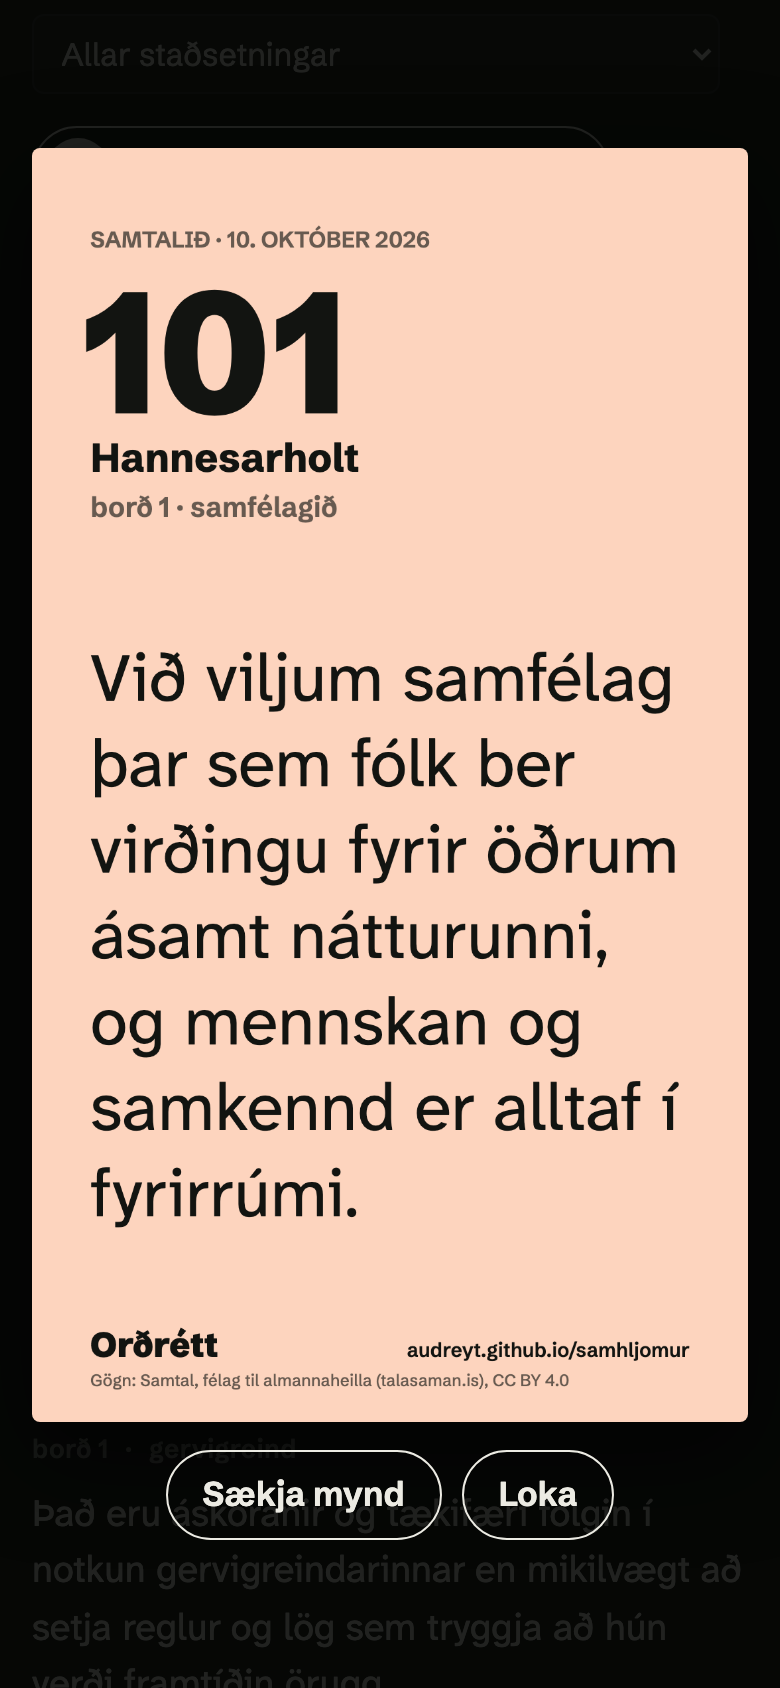
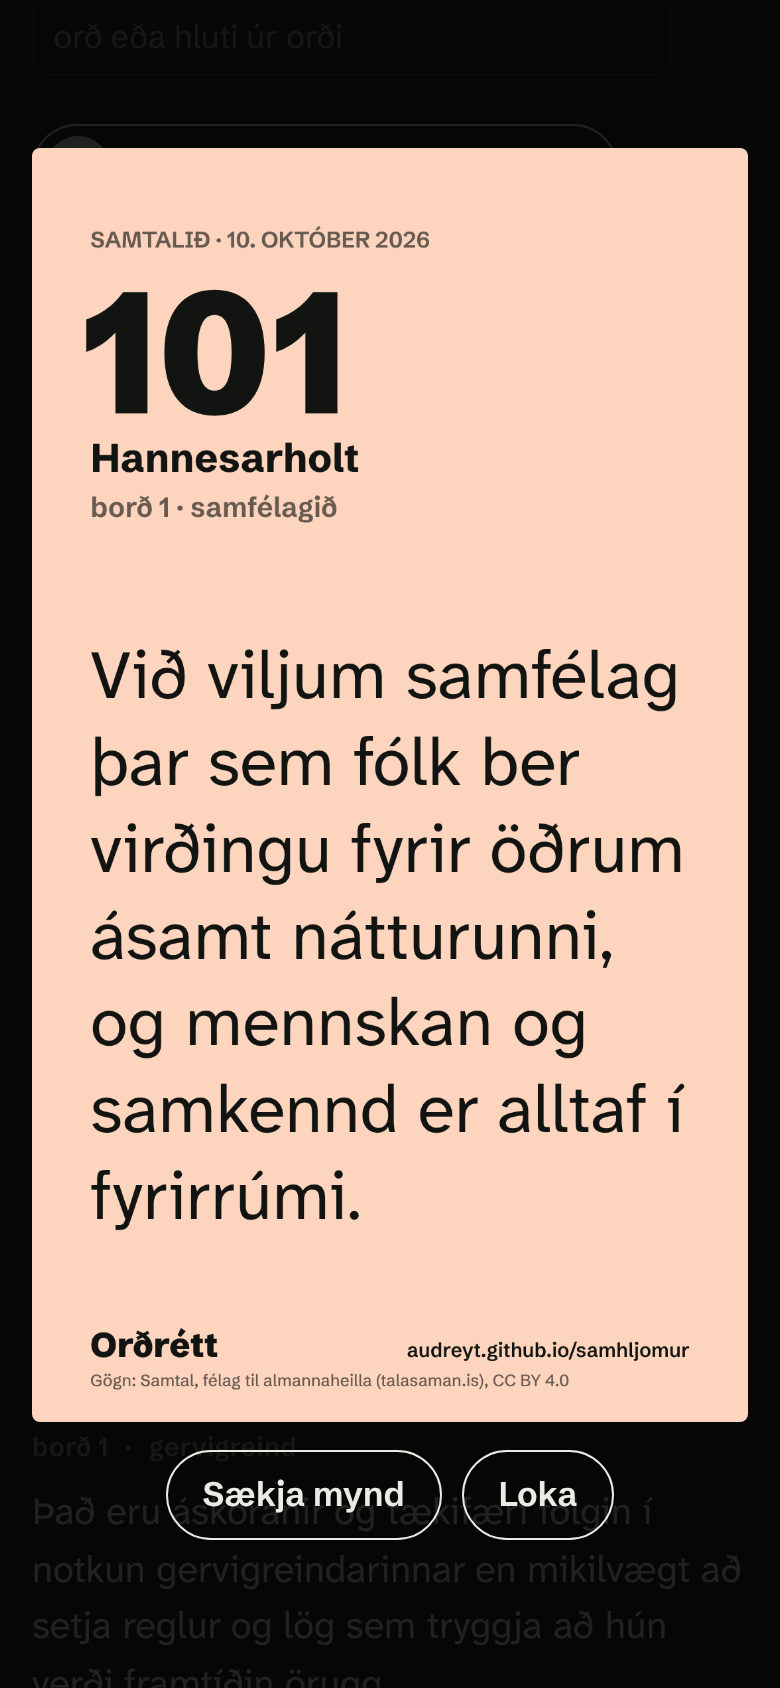
Orðrétt: a voice's words end where the voice ends; gate log, 58 gates
A poster in the shape of its voice spread the recording over every line the
box could hold, so a short summary left the end of the voice empty. The
recording now spreads over just as many lines as its words fill, and the
shape is centred in its box; most voiced posters come out larger
(Kvennaskólinn table 2: 66px to 72px).

All 58 gates pass with the network, live data from talasaman.is
(11 October 14:01) on the 21:49 snapshot. Poster screenshots updated.

Claude-Session: https://claude.ai/code/session_015ftgK1hSCCcaSGox1J6oHR

diff --git a/ordrett/page.html b/ordrett/page.html
@@ -1501,7 +1501,8 @@ function wordsPlan(r, boxH) {
 // A summary with a recording is set in the shape of that recording: top to bottom is start to end,
 // and each line is as wide as the voice is loud in its stretch (the mean reading there, scaled from
 // the quietest stretch to the loudest: 40% of the measure to all of it). A line is widened rather than
-// cut a word. The size is the largest at which the whole summary fits the shape.
+// cut a word. The recording is spread over just as many lines as its words fill, so the words end
+// where the voice ends; the size is the largest at which that fits the box.
 const VLH = 1.2;
 function voicePlan(r, env, boxH) {
   const text = r.summary, p = prepared(text, POSTER_WORDS);
@@ -1516,9 +1517,7 @@ function voicePlan(r, env, boxH) {
     const lo = Math.min(...v), span = Math.max(...v) - lo || 1;
     return v.map((x) => PRW * (0.4 + 0.6 * (x - lo) / span));
   };
-  const flow = (s) => {
-    const n = Math.floor(boxH / (s * VLH));
-    if (n < 2) return null;
+  const flow = (s, n) => {
     const rows = widths(n), lines = [];
     let cur = { segmentIndex: 0, graphemeIndex: 0 }, at = 0;
     for (let i = 0; i < n && at < text.length; i++) {
@@ -1538,8 +1537,18 @@ function voicePlan(r, env, boxH) {
     }
     return at === text.length ? { size: s, rows, lines } : null;
   };
-  const s = largest((s) => !!flow(s), POSTER_MIN, 120);
-  return s ? flow(s) : null;
+  // the fewest lines whose shape holds the summary, every line used; failing that, the fewest that hold it
+  const fill = (s) => {
+    let some = null;
+    for (let n = 2; n <= Math.floor(boxH / (s * VLH)); n++) {
+      const f = flow(s, n);
+      if (f && f.lines.length === n) return f;
+      if (f && !some) some = f;
+    }
+    return some;
+  };
+  const s = largest((s) => !!fill(s), POSTER_MIN, 120);
+  return s ? fill(s) : null;
 }
 
 function sheet(r) {
@@ -1608,10 +1617,10 @@ async function poster(r) {
   const [cv, g] = sheet(r);
   const y = head(g, r, "");
   if (PT && env) {
-    const rule = ruleLines(g, r), ruleTop = 1748 - (rule.length - 1) * 34 - 26, top = y + 64;
-    const plan = voicePlan(r, env, ruleTop - 56 - top);
+    const rule = ruleLines(g, r), ruleTop = 1748 - (rule.length - 1) * 34 - 26, top = y + 64, boxH = ruleTop - 56 - top;
+    const plan = voicePlan(r, env, boxH);
     if (plan) {
-      drawVoice(g, r, plan, top);
+      drawVoice(g, r, plan, top + (boxH - plan.rows.length * plan.size * VLH) / 2);
       g.fillStyle = DIM; g.font = '600 26px "Schibsted Grotesk"'; g.textAlign = "center";
       rule.forEach((l, i) => g.fillText(l, PW / 2, ruleTop + 26 + i * 34));
       g.textAlign = "left";

diff --git a/site/index.html b/site/index.html
@@ -1505,7 +1505,8 @@ function wordsPlan(r, boxH) {
 // A summary with a recording is set in the shape of that recording: top to bottom is start to end,
 // and each line is as wide as the voice is loud in its stretch (the mean reading there, scaled from
 // the quietest stretch to the loudest: 40% of the measure to all of it). A line is widened rather than
-// cut a word. The size is the largest at which the whole summary fits the shape.
+// cut a word. The recording is spread over just as many lines as its words fill, so the words end
+// where the voice ends; the size is the largest at which that fits the box.
 const VLH = 1.2;
 function voicePlan(r, env, boxH) {
   const text = r.summary, p = prepared(text, POSTER_WORDS);
@@ -1520,9 +1521,7 @@ function voicePlan(r, env, boxH) {
     const lo = Math.min(...v), span = Math.max(...v) - lo || 1;
     return v.map((x) => PRW * (0.4 + 0.6 * (x - lo) / span));
   };
-  const flow = (s) => {
-    const n = Math.floor(boxH / (s * VLH));
-    if (n < 2) return null;
+  const flow = (s, n) => {
     const rows = widths(n), lines = [];
     let cur = { segmentIndex: 0, graphemeIndex: 0 }, at = 0;
     for (let i = 0; i < n && at < text.length; i++) {
@@ -1542,8 +1541,18 @@ function voicePlan(r, env, boxH) {
     }
     return at === text.length ? { size: s, rows, lines } : null;
   };
-  const s = largest((s) => !!flow(s), POSTER_MIN, 120);
-  return s ? flow(s) : null;
+  // the fewest lines whose shape holds the summary, every line used; failing that, the fewest that hold it
+  const fill = (s) => {
+    let some = null;
+    for (let n = 2; n <= Math.floor(boxH / (s * VLH)); n++) {
+      const f = flow(s, n);
+      if (f && f.lines.length === n) return f;
+      if (f && !some) some = f;
+    }
+    return some;
+  };
+  const s = largest((s) => !!fill(s), POSTER_MIN, 120);
+  return s ? fill(s) : null;
 }
 
 function sheet(r) {
@@ -1612,10 +1621,10 @@ async function poster(r) {
   const [cv, g] = sheet(r);
   const y = head(g, r, "");
   if (PT && env) {
-    const rule = ruleLines(g, r), ruleTop = 1748 - (rule.length - 1) * 34 - 26, top = y + 64;
-    const plan = voicePlan(r, env, ruleTop - 56 - top);
+    const rule = ruleLines(g, r), ruleTop = 1748 - (rule.length - 1) * 34 - 26, top = y + 64, boxH = ruleTop - 56 - top;
+    const plan = voicePlan(r, env, boxH);
     if (plan) {
-      drawVoice(g, r, plan, top);
+      drawVoice(g, r, plan, top + (boxH - plan.rows.length * plan.size * VLH) / 2);
       g.fillStyle = DIM; g.font = '600 26px "Schibsted Grotesk"'; g.textAlign = "center";
       rule.forEach((l, i) => g.fillText(l, PW / 2, ruleTop + 26 + i * 34));
       g.textAlign = "left";
